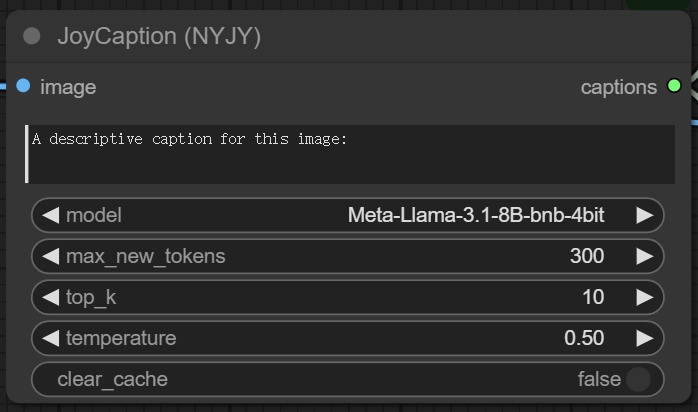
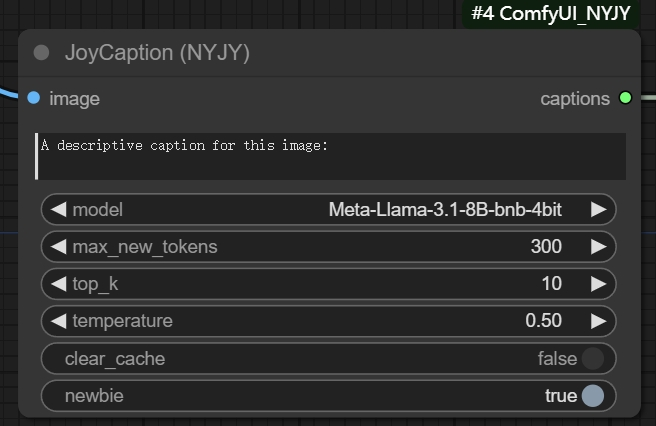
兼容linux；设置请求超时；修改文档

diff --git a/nodes/config.py b/nodes/config.py
@@ -10,6 +10,7 @@ config_template = {
         "model_download": "https://hf-mirror.com/fancyfeast/joytag/tree/main",
         "hf_project": "fancyfeast/joytag",
     },
+    "Google": {"proxy": "127.0.0.1:10809"},
 }
 
 current_path = os.path.abspath(os.path.dirname(__file__))
@@ -33,27 +34,26 @@ def LoadConfig():
     global config_path
     global current_path
 
-    config_data = config_template.copy()
+    if config_data is not None:
+        return config_data
+    else:
+        config_data = config_template.copy()
 
-    if os.path.exists(config_path):
-        with open(config_path, "r") as f:
-            content = f.read()
-            config_data = json.loads(content)
-            # 合并最新的配置项（当config_template有变动的时候）
-            config_data = merge_config(config_data, config_template)
+        if os.path.exists(config_path):
+            with open(config_path, "r") as f:
+                content = f.read()
+                config_data = json.loads(content)
+                # 合并最新的配置项（当config_template有变动的时候）
+                config_data = merge_config(config_data, config_template)
 
-    with open(config_path, "w") as f:
-        f.write(json.dumps(config_data, indent=4))
+        with open(config_path, "w") as f:
+            f.write(json.dumps(config_data, indent=4))
 
-    current_dir = os.path.dirname(__file__)
-    config_data["base_path"] = os.path.dirname(
-        current_dir
-    )  # os.path.join(current_path, "../")
-    return config_data
+        current_dir = os.path.dirname(__file__)
+        config_data["base_path"] = os.path.dirname(current_dir)
+        return config_data
 
 
 def print_log(str_msg):
-    # f_current_line = str(currentframe().f_back.f_lineno)  # 哪一行调用的此函数
-    # mod = getmodule(stack()[1][0])  # 调用函数的信息
     str_time = time.strftime("%Y-%m-%d %H:%M:%S", time.localtime())
     print(f"[NYJY][{str_time}][{stack()[1][1]}, line: {stack()[1][2]}]: {str_msg}")

diff --git a/nodes/JoyCaption/online.py b/nodes/JoyCaption/online.py
@@ -30,7 +30,7 @@ class joy_caption_online:
         self.__host = host
         pass
 
-    def __upload_image(self, img_path, file_info):
+    def __upload_image(self, file_info):
         file_info.name
         nonceid = create_nonceid(11)
 
@@ -38,6 +38,7 @@ class joy_caption_online:
             response = self.__session.post(
                 f"https://{self.__host}/upload?upload_id={nonceid}",
                 files={"files": (file_info.name, open(file_info, "rb"))},
+                timeout=20,
             )
 
             arr_img = json.loads(response.text)
@@ -69,6 +70,7 @@ class joy_caption_online:
                     "trigger_id": 5,
                     "session_hash": nonceid,
                 },
+                timeout=60,
             )
             return nonceid
         except requests.exceptions.RequestException as e:
@@ -83,6 +85,7 @@ class joy_caption_online:
             response = self.__session.get(
                 f"https://{self.__host}/queue/data?session_hash={nonceid}",
                 stream=True,
+                timeout=30,
             )
 
             for line in response.iter_lines():
@@ -108,7 +111,7 @@ class joy_caption_online:
     def analyze(self, img_path):
         file_info = Path(img_path)
         print_log("上传图片进行分析")
-        img_url = self.__upload_image(img_path, file_info)
+        img_url = self.__upload_image(file_info)
         if img_url == "":
             return ""
         print_log("提交服务器处理中...")

diff --git a/nodes/utils.py b/nodes/utils.py
@@ -1,6 +1,8 @@
 import string
 import secrets
 import winreg
+import os
+from .config import LoadConfig
 
 
 def create_nonceid(length=10):
@@ -11,16 +13,20 @@ def create_nonceid(length=10):
 
 # 获取系统代理地址
 def get_system_proxy():
-    try:
-        internet_settings = winreg.OpenKey(
-            winreg.HKEY_CURRENT_USER,
-            r"Software\Microsoft\Windows\CurrentVersion\Internet Settings",
-        )
-        proxy_server, _ = winreg.QueryValueEx(internet_settings, "ProxyServer")
-        proxy_enable, _ = winreg.QueryValueEx(internet_settings, "ProxyEnable")
-        if proxy_enable:
-            return proxy_server
-        else:
+    if os.name == "nt":
+        try:
+            internet_settings = winreg.OpenKey(
+                winreg.HKEY_CURRENT_USER,
+                r"Software\Microsoft\Windows\CurrentVersion\Internet Settings",
+            )
+            proxy_server, _ = winreg.QueryValueEx(internet_settings, "ProxyServer")
+            proxy_enable, _ = winreg.QueryValueEx(internet_settings, "ProxyEnable")
+            if proxy_enable:
+                return proxy_server
+            else:
+                return None
+        except FileNotFoundError:
             return None
-    except FileNotFoundError:
-        return None
+    else:
+        config_data = LoadConfig()
+        return config_data["Google"]["proxy"] if "Google" in config_data else None

diff --git a/docs/joycaption.md b/docs/joycaption.md
@@ -30,6 +30,8 @@ temperature：无特殊需求可以不修改
 
 clear_cache：运行该插件需要加载大语言模型和CLIP模型，在我的4090显卡上测试大概需要9-10G的显存。对于显存比较吃紧的用户，可以打开此选项，作用是在每次推理图片结束后，回收加载模型时占用的缓存，这是一种用时间换空间的权宜之计，副作用是每次推理都需要重新加载大语言模型和CLIP模型，整体运行时间变长。
 
+newbie：新手模式（在线模式），无需下载模型直接运行，开启式，上述其他参数除了image均无效。
+
 #### 3 工作流示例（图片含工作流）
 
 ![工作流](images/joycaption.png)
